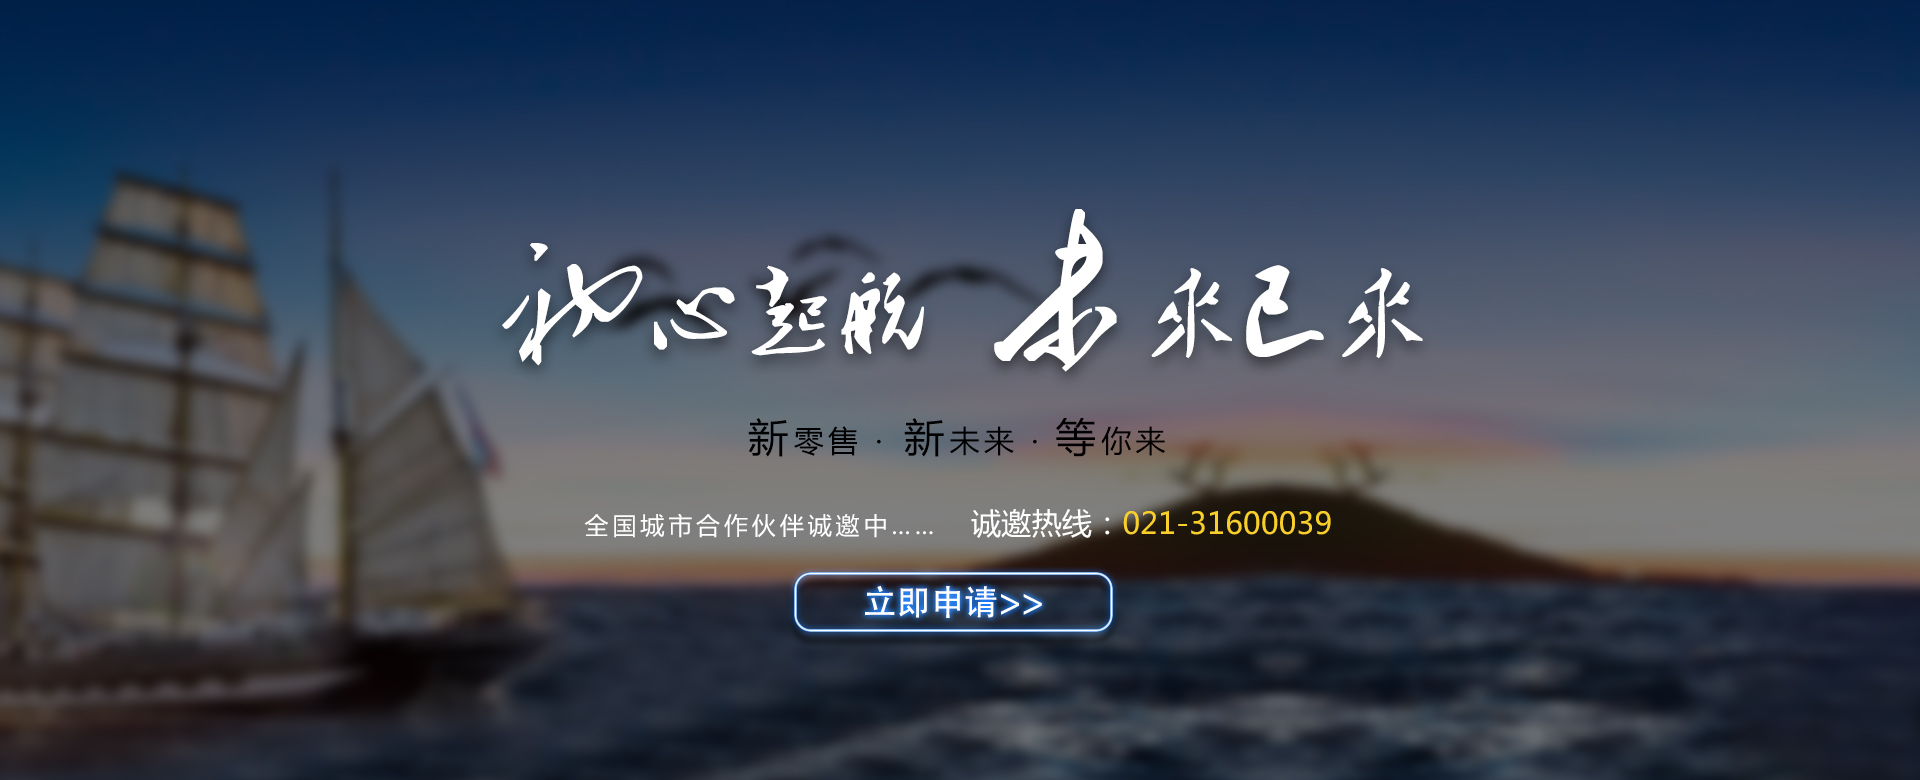
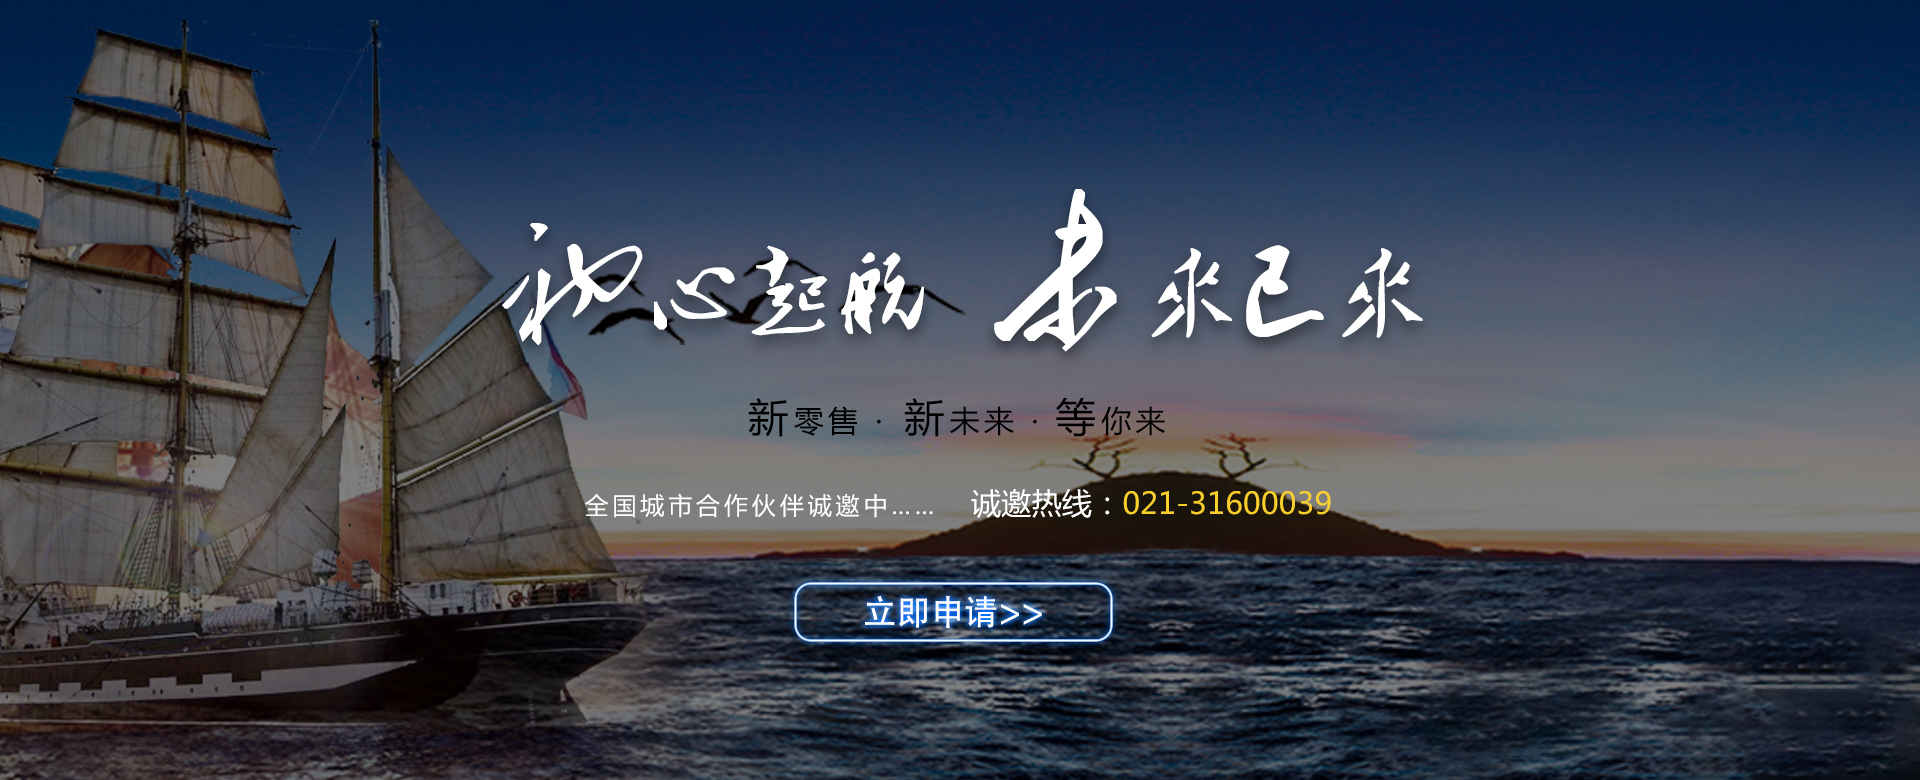
zt

diff --git a/index.html b/index.html
@@ -14,29 +14,29 @@
 <body>
   <div class="wrap">
     <!-- 轮播图 -->
-    <div id="carousel-example-generic" class="carousel slide" data-ride="carousel">
+    <div id="carousel-example-generic" class="carousel slide" data-ride="carousel" style="height: 780px;">
       <img src="png/logo.png" alt="" style="position: absolute;z-index: 1;margin-top: 28px;left: 5%;">
       <ul class="navig" style="position: absolute;z-index: 1;margin-top: 60px;right: 5%" id="navigator">
         <li>
           <a href="#" class="navigL home_page">首页</a>
         </li>
         <li>
-          <a href="#" class="navigL">解决方案</a>
+          <a href="#solution" class="navigL">解决方案</a>
         </li>
         <li>
-          <a href="#" class="navigL">产品与服务</a>
+          <a href="#productAndService" class="navigL">产品与服务</a>
         </li>
         <li>
-          <a href="#" class="navigL">案例展示</a>
+          <a href="#productAndService" class="navigL">案例展示</a>
         </li>
         <li>
-          <a href="#" class="navigL">招商加盟</a>
+          <a href="#investment" class="navigL">招商加盟</a>
         </li>
         <li>
-          <a href="#" class="navigL">关于我们</a>
+          <a href="#AboutUs" class="navigL">关于我们</a>
         </li>
         <li>
-          <a href="#" class="navigL">申请试用</a>
+          <a href="#myModal" class="navigL" data-toggle="modal">申请试用</a>
         </li>
       </ul>
       <!-- Indicators -->
@@ -47,21 +47,21 @@
       </ol>
 
       <!-- Wrapper for slides -->
-      <div class="carousel-inner" role="listbox">
+      <div class="carousel-inner" role="listbox" style="height: 780px;">
         <div class="item active">
-          <img src="png/banner.jpg" alt="...">
+         <img src="png/banner.jpg" alt="..." style="height: 780px;">
           <div class="carousel-caption">
 
           </div>
         </div>
         <div class="item">
-          <img src="png/banner2.jpg" alt="...">
+          <img src="png/banner2.jpg" alt="..." style="height: 780px;">
           <div class="carousel-caption">
 
           </div>
         </div>
         <div class="item">
-          <img src="png/banner3.jpg" alt="...">
+          <img src="png/banner3.jpg" alt="..." style="height: 780px;">
           <div class="carousel-caption">
 
           </div>
@@ -70,7 +70,7 @@
     </div>
 
     <!-- 赋能 -->
-    <div class="energize flex">
+    <div class="energize flex" id="solution">
 
       <div class="energize-gather">
         <img src="png/energize.jpg" alt="" style="width: 1080px;height: 100%;">
@@ -78,13 +78,12 @@
       <div class="application">
         <img src="png/icon_sqsy.png" alt="" style="display:block;margin: 0 auto;width: 47px;height: 47px;">
         <div class="use" style="width: 28px; margin: 0 auto">
-          <a href="" style="display:block;height: 100%;text-decoration: none;color: white;">申请使用</a>
+          <a href="#" style="display:block;height: 100%;text-decoration: none;color: white;" data-toggle="modal" data-target="#myModal">申请使用</a>
         </div>
       </div>
     </div>
-
-    <!-- 聚焦 -->
-    <div class="focalize">
+     <!-- 聚焦 -->
+    <div class="focalize" id="productAndService">
       <div style="width: 1080px;margin: 0 auto ; ">
         <h2>聚焦 多场景消费体验</h2>
         <div class="focalize-head">消费者以微信和小程序为入口介入品牌商户或门店提供的线上线下整体服务,参与活动,享受权益,完成消费。</div>
@@ -164,7 +163,7 @@
     </div>
 
     <!-- 梦想 -->
-    <div class="Dream_wrapper">
+    <div class="Dream_wrapper" id="AboutUs">
       <div style="width: 1080px;height: 100%;margin: 0 auto;">
         <div class="Dream_title">
           <p style="font-family: MicrosoftYaHei;">追寻 团队的梦想</p>
@@ -197,7 +196,7 @@
     </div>
 
     <!-- 182 -->
-    <div class="agent_wrapper">
+    <div class="agent_wrapper" id="investment">
       <div class="agent_title">
         城市合伙人招募
       </div>
@@ -212,9 +211,6 @@
         <div class="agent_right">
           <div class="all_city">
             全国城市合作伙伴诚邀中........
-          </div>
-          <div class="applay">
-            <a href="">立即申请 >></a>
           </div>
           <div class="photo flex">
             <div style="font-size: 24px;">诚邀热线：</div>
@@ -248,16 +244,44 @@
     </div>
 
     <div class="footer">
-      上海寻点信息科技有限公司All rights reserved. 沪ICP备
+      <a href="http://www.miitbeian.gov.cn/publish/query/indexFirst.action">上海寻点信息科技有限公司All rights reserved. 沪ICP备18015452号-1</a>
     </div>
   </div>
 
-
+    <!-- Modal -->
+    <div class="modal fade" id="myModal" tabindex="-1" role="dialog" aria-labelledby="myModalLabel">
+        <div class="modal-dialog" role="document" style="width: 480px;height: 500px;margin: 240px 0 0 720px;">
+          <form id="mainForm" action="/store/apply/postApply.do" class="modal-content jsrz_main_information" style="width: 480px;height: 500px;padding: 50px 40px 60px;"  method="post" enctype="multipart/form-data">
+            <div style="margin-bottom: 60px">
+              <button type="button" class="close" data-dismiss="modal" aria-label="Close"><span aria-hidden="true">&times;</span></button>
+              <h4 class="modal-title" id="myModalLabel" style="font-family: MicrosoftYaHei;font-size: 28px; color: #333333;text-align: center">申请体验账号</h4>
+            </div>
+            <div>
+              <div style="margin-bottom: 20px;height: 56px;padding: 14px 0 14px 20px;width: 100%;border: 1px solid;border-radius: 30px">
+                  <img src="png/icon_name.png" alt="" style="margin-right: 10px">
+                  <input type="text" name=" contactor" style="border: 0px;outline:none;width: 300px;" placeholder="请填写您的真实姓名或昵称">
+              </div>
+              <div style="margin-bottom: 20px;height: 56px;padding: 14px 0 14px 20px;width: 100%;border: 1px solid;border-radius: 30px">
+                  <img src="png/icon_phone.png" alt="" style="margin-right: 10px">
+                  <input type="tel" name="tel" style="border: 0px;outline:none;width: 300px;" placeholder="请输入您的手机号码">
+              </div>
+              <div style="margin-bottom: 40px;height: 56px;padding: 14px 0 14px 20px;width: 100%;border: 1px solid;border-radius: 30px">
+                  <img src="png/icon_storename.png" alt="" style="margin-right: 10px">
+                  <input type="text" name="company" style="border: 0px;outline:none;width: 300px;" placeholder="请输入门店名称">
+              </div>
+            </div>
+            <div class="jsrz_main_button">
+              <input type="submit" name="memo" value="确定" id="agreementSub"  style="width: 100%;height: 56px;" class="btn btn-primary">  
+            </div>
+          </form>
+        </div>
+      </div>
 
 </body>
 <script type="text/javascript" src="js/jquery.min.js"></script>
 <script type="text/javascript" src="js/bootstrap.js"></script>
 <script>
+
   (function (doc, win) {
     let designWidth = 1080 // 设计图宽度
     let docEl = doc.documentElement
@@ -271,19 +295,13 @@
     win.addEventListener(resizeEvt, recalc, false)
     doc.addEventListener('DOMContentLoaded', recalc, false)
   })(document, window)
-  var css = {
-    color: "#043B8A",
-    'border-bottom': "1px solid #043B8A"
-  }
-  $('.home_page').css(css)
-  $('.navig').children()
-  let a = [].slice.call($('.navig').children('li'))
-  console.log(a)
-  a.forEach(element => {
-    element.onmouseover = function (ev) {
-      $('.home_page').removeAttr("style");
-    }
+
+// 表单
+$("#agreementSub").click(function(){
+  $.post("/store/apply/postApply.do",{},function(data,status){
+     
   });
+});
 </script>
 
 </html>

diff --git a/css/index.css b/css/index.css
@@ -59,8 +59,11 @@ li {
   display: block;
   text-decoration: none;
 }
-
-.navig li::before {
+.home_page{
+  color: #043B8A !important;
+  border-bottom: 1px solid #043B8A
+}
+/* .navig li::before {
   content: '';
   position: absolute;
   top: 0;
@@ -78,7 +81,7 @@ li {
 
 li:hover~li::before {
   left: 0;
-}
+} */
 
 /* 赋能 */
 
@@ -137,6 +140,11 @@ h2 {
   text-align: center;
 }
 
+input::-webkit-input-placeholder, textarea::-webkit-input-placeholder { 
+  color: #d0d0d0; 
+  font-size: 14px;
+  font-family: MicrosoftYaHei;
+  }
 /* 驱动 */
 
 .drive {
@@ -363,19 +371,19 @@ h2 {
   color: #ffffff;
   width: 448px;
   height: 212px;
-  margin-right: 87px;
+  margin-right: 94px;
   display: flex;
   flex-direction: column;
   align-content: space-between;
 }
 
 .agent_right {
-  padding-top: 29px;
+  padding-top: 40px;
   color: #ffffff
 }
 
 .all_city {
-  margin-bottom: 40px;
+  margin-bottom: 68px;
   font-size: 40px;
 }
 
@@ -398,11 +406,14 @@ h2 {
 .photo {
   width: 346px;
   height: 29px;
-  margin-top: 30px;
   flex-direction: row;
 }
 
 .photo_num {
   color: #9CC813;
   font-size: 32px;
+}
+.footer a{
+  text-decoration: none;
+  color: #FFFFFF
 }
